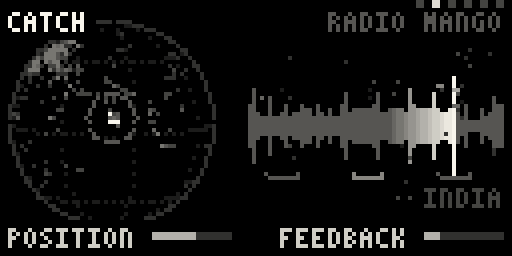
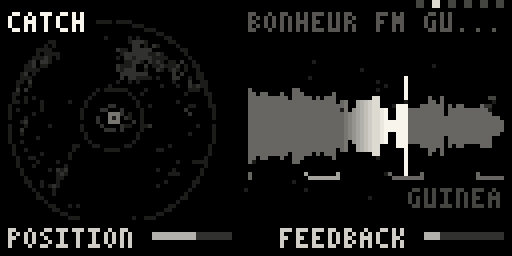
The screen shows each part: picked or turned, its piece of the picture lights and the rest dims
wind lights the globe, with a ring as far as a move can reach; catch the tape, head and brackets;
scatter and tint the grains (tint: the scale as ticks beside the tape, the grains' pitch marked);
tone the waveform; air the haze. A wind with a pace drifts faint streaks over the globe, and the
mix leans the brightness from the station's waves to the grains. The manual's screens are taken
again to show it, and the manual and README describe it.

diff --git a/README.md b/README.md
@@ -135,7 +135,11 @@ laid flat like tape: the waveform of what it caught, with the write head sweepin
 sound brightest behind it; what isn't caught yet is a dotted line). The bracket under the tape is
 where the grains are read from (position). The grains leave the tape from there, up when they play
 forwards and down when backwards, faster the higher they're pitched; silence throws none. Pressed,
-the head stops and the whole tape holds evenly lit. The haze over it is the reverb. Every
+the head stops and the whole tape holds evenly lit. The haze over it is the reverb. Picking a part or turning its knobs lights its piece of the picture for a moment (wind the
+globe, with a ring as far as a move can reach; catch the tape; scatter and tint the grains, tint
+with its scale as ticks beside the tape; tone the waveform; air the haze) and dims the rest. A
+wind with a pace drifts faint streaks over the globe, and the mix leans the brightness from the
+station's waves to the grains. Every
 macro, variety and gesture is also in PARAMS, so it saves with PSETs and can be MIDI-mapped.
 pollen picks up where it left off: the settings are kept on the way out (`last.pset` in its data
 folder, apart from the numbered PSETs) and read at the next start.

diff --git a/doc/MANUAL.md b/doc/MANUAL.md
@@ -340,6 +340,21 @@ there, upward when they play forwards and downward when backwards, faster the hi
 pitched. Silence throws none. Pressed, the head stops and the whole tape holds evenly lit. The
 haze over it is the reverb.
 
+**Each part has its piece of the picture.** When you pick a part or turn its knobs, its piece
+lights up and the rest dims for a moment, so you can see what you're changing:
+
+- **wind** lights the globe, and draws a dotted ring around the station as far as a move can
+  reach. While the wind has a pace, faint streaks drift across the globe, quicker the shorter
+  the pace.
+- **catch** lights the tape, the head and the brackets.
+- **scatter** lights the grains.
+- **tint** lights the grains too, and shows the scale as ticks down the right edge (two octaves
+  either way, the root brighter), with a mark where the grains are pitched. Free is a faint
+  line.
+- **tone** lights the waveform.
+- **air** lights the haze. The mix also leans the picture: toward the radio, the station's waves
+  on the globe grow brighter; toward the grains, the grains do.
+
 The station's name and place show as you arrive, and on a peek.
 
 ---
